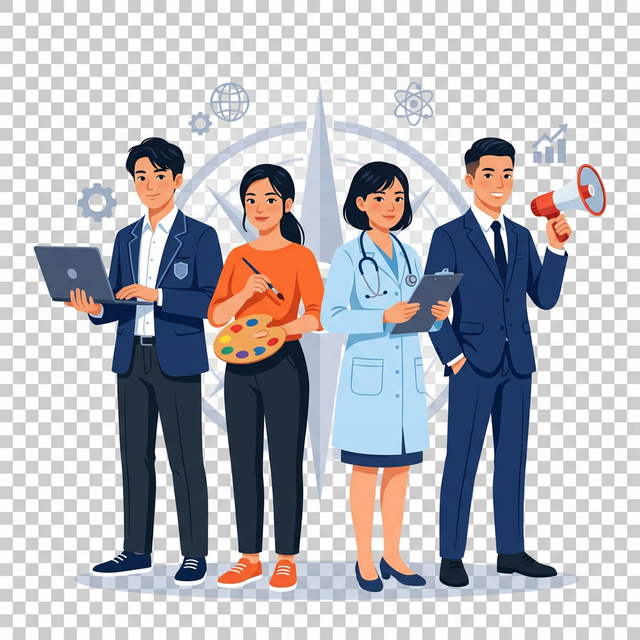
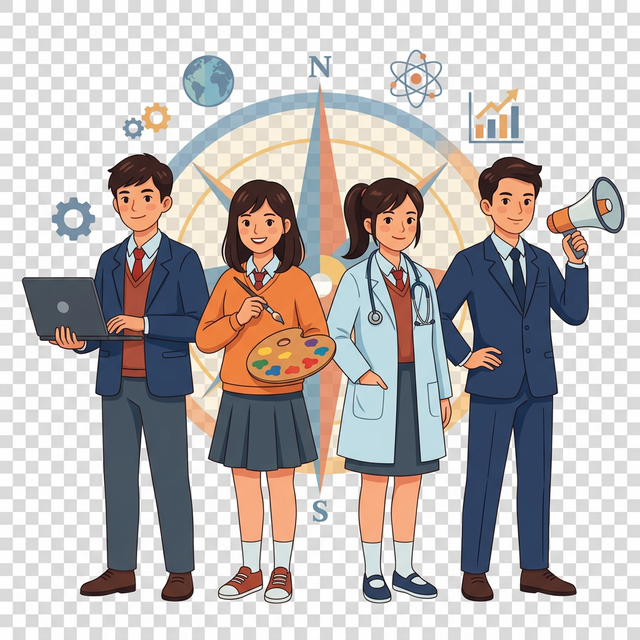
fix: hero image display - replace image and add blend mode for seamless background

diff --git a/src/components/home/HeroSection.tsx b/src/components/home/HeroSection.tsx
@@ -169,14 +169,12 @@ export default function HeroSection() {
             className="flex-1 max-w-lg lg:max-w-xl"
           >
             <div className="relative">
-              {/* Glow behind image */}
-              <div className="absolute -inset-8 bg-gradient-to-br from-ge-yellow/20 via-ge-blue-light/20 to-ge-orange/20 rounded-[3rem] blur-3xl" />
               <Image
                 src="/images/hero-illustration.png"
                 alt="Vietnamese students exploring career paths"
                 width={600}
                 height={400}
-                className="relative z-10 w-full h-auto drop-shadow-2xl"
+                className="relative z-10 w-full h-auto drop-shadow-2xl mix-blend-multiply"
                 priority
               />
             </div>
